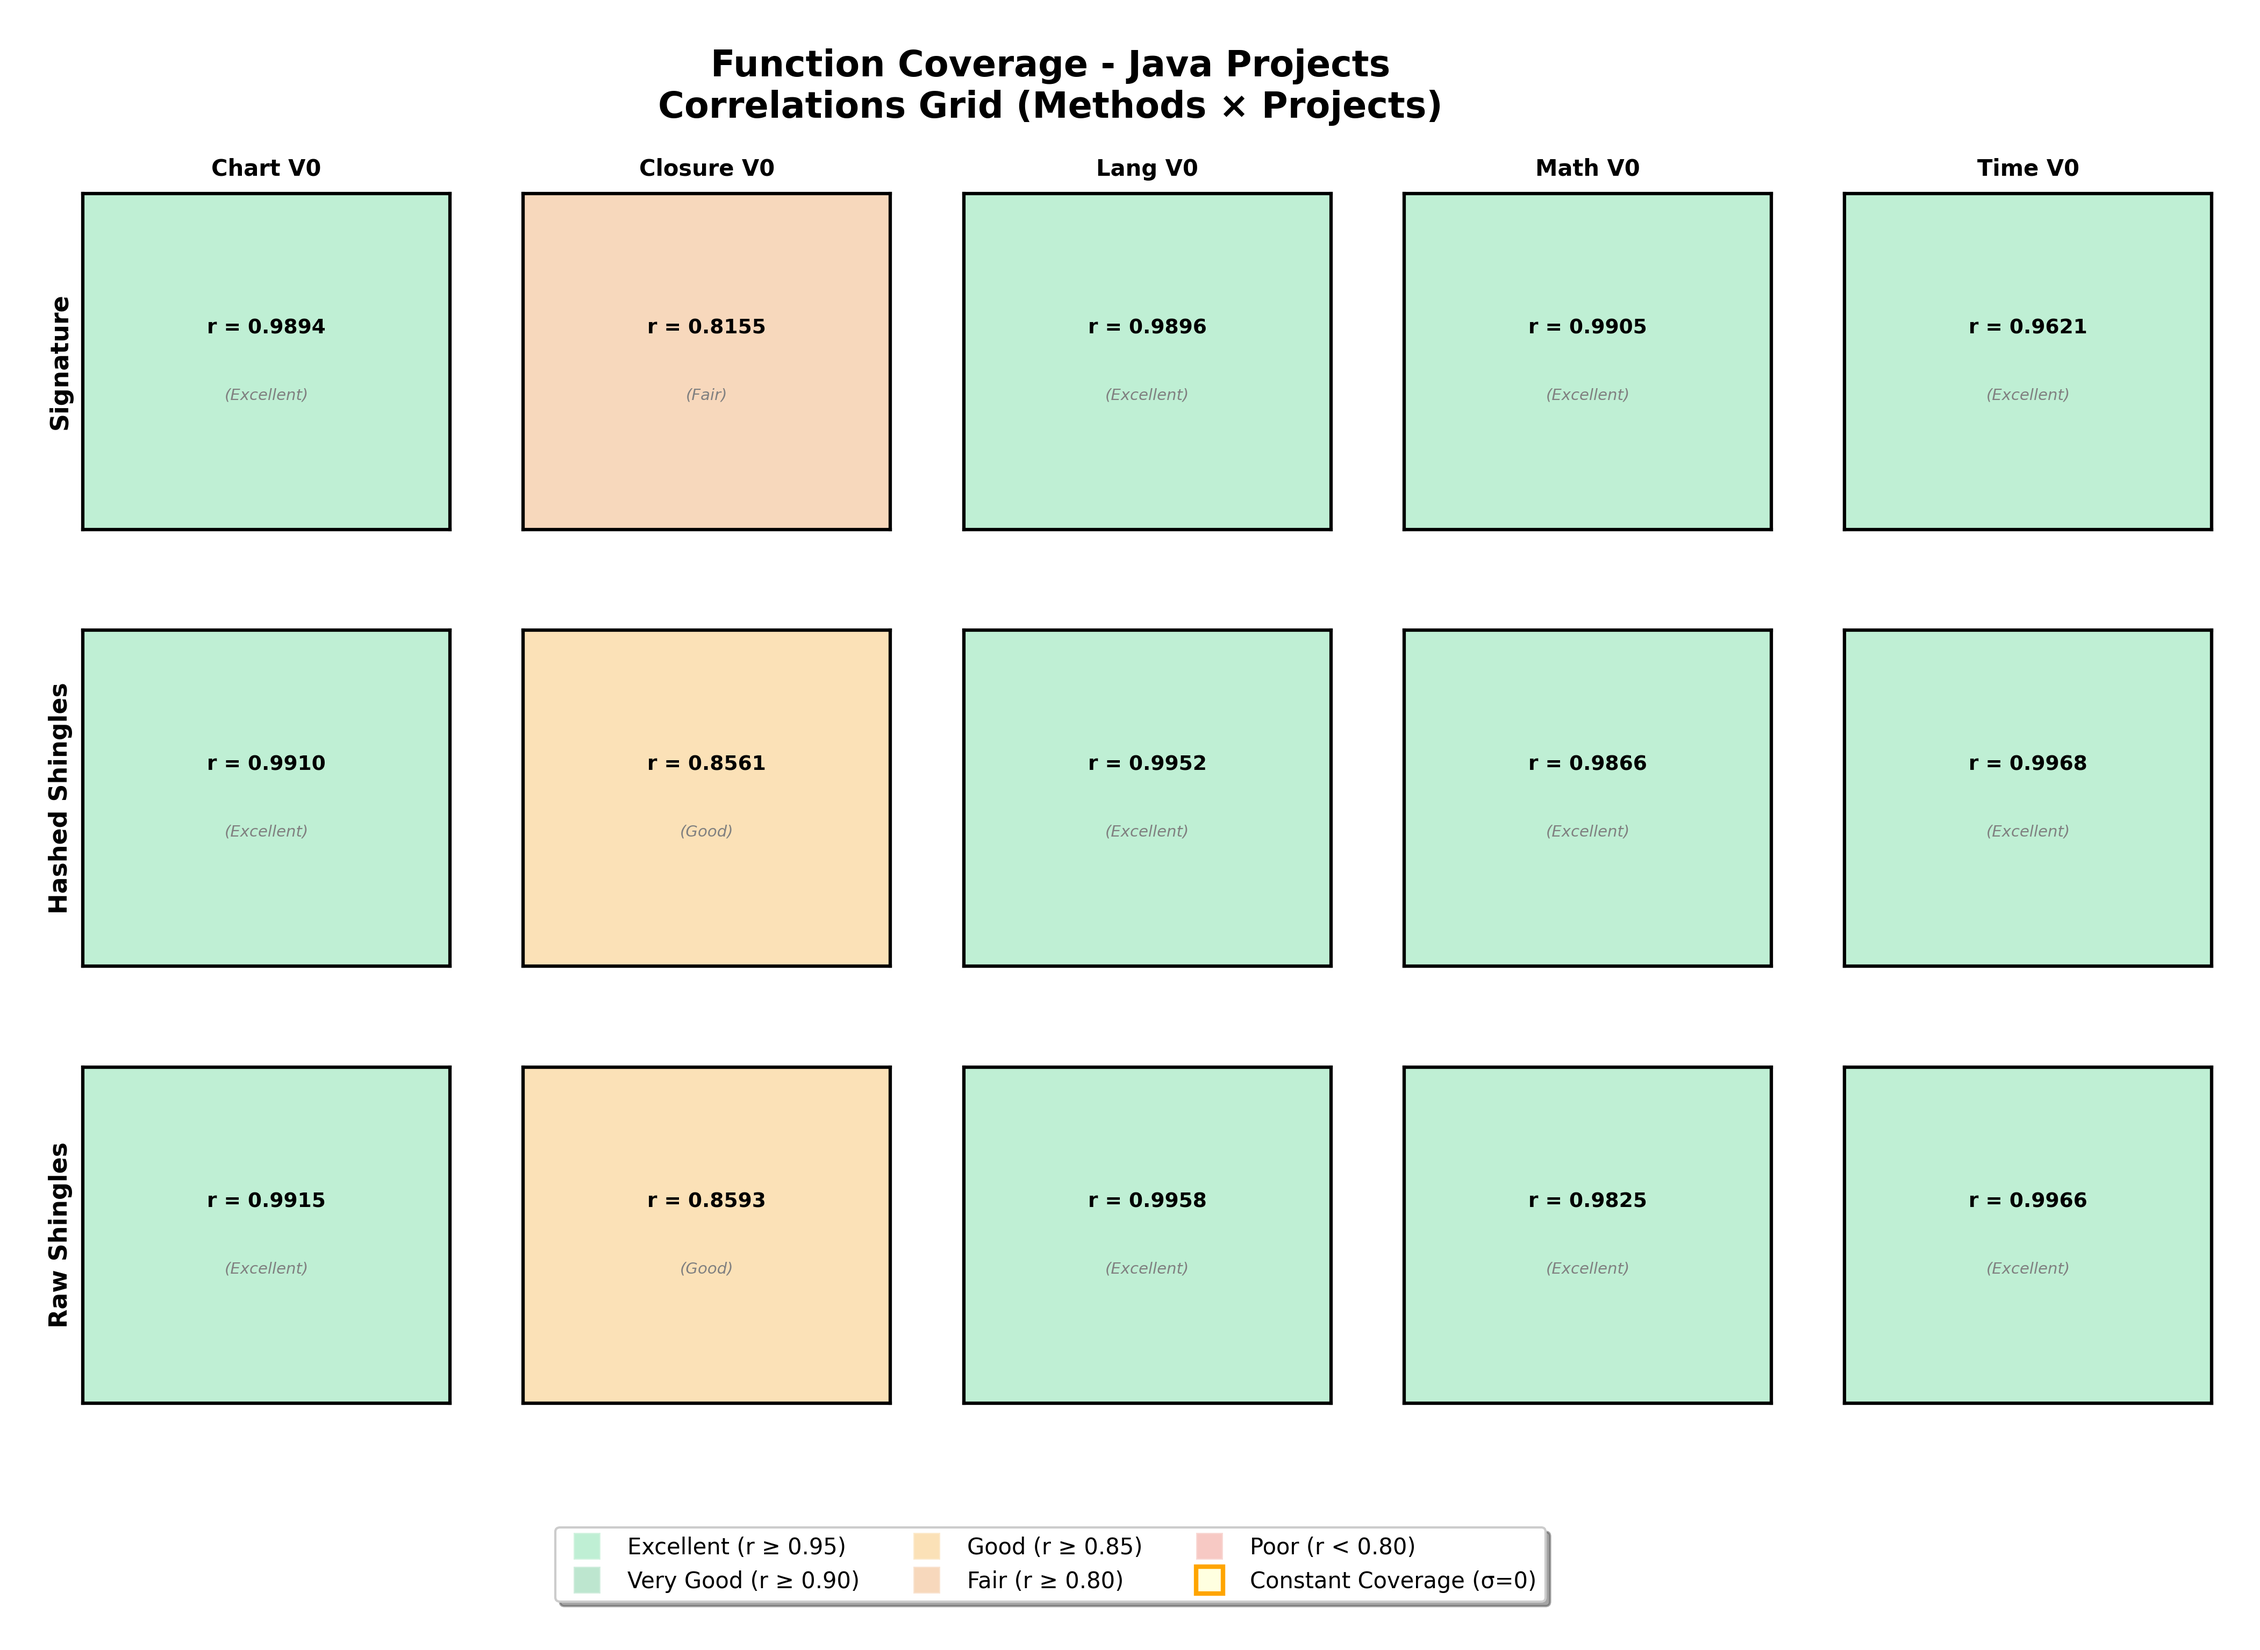
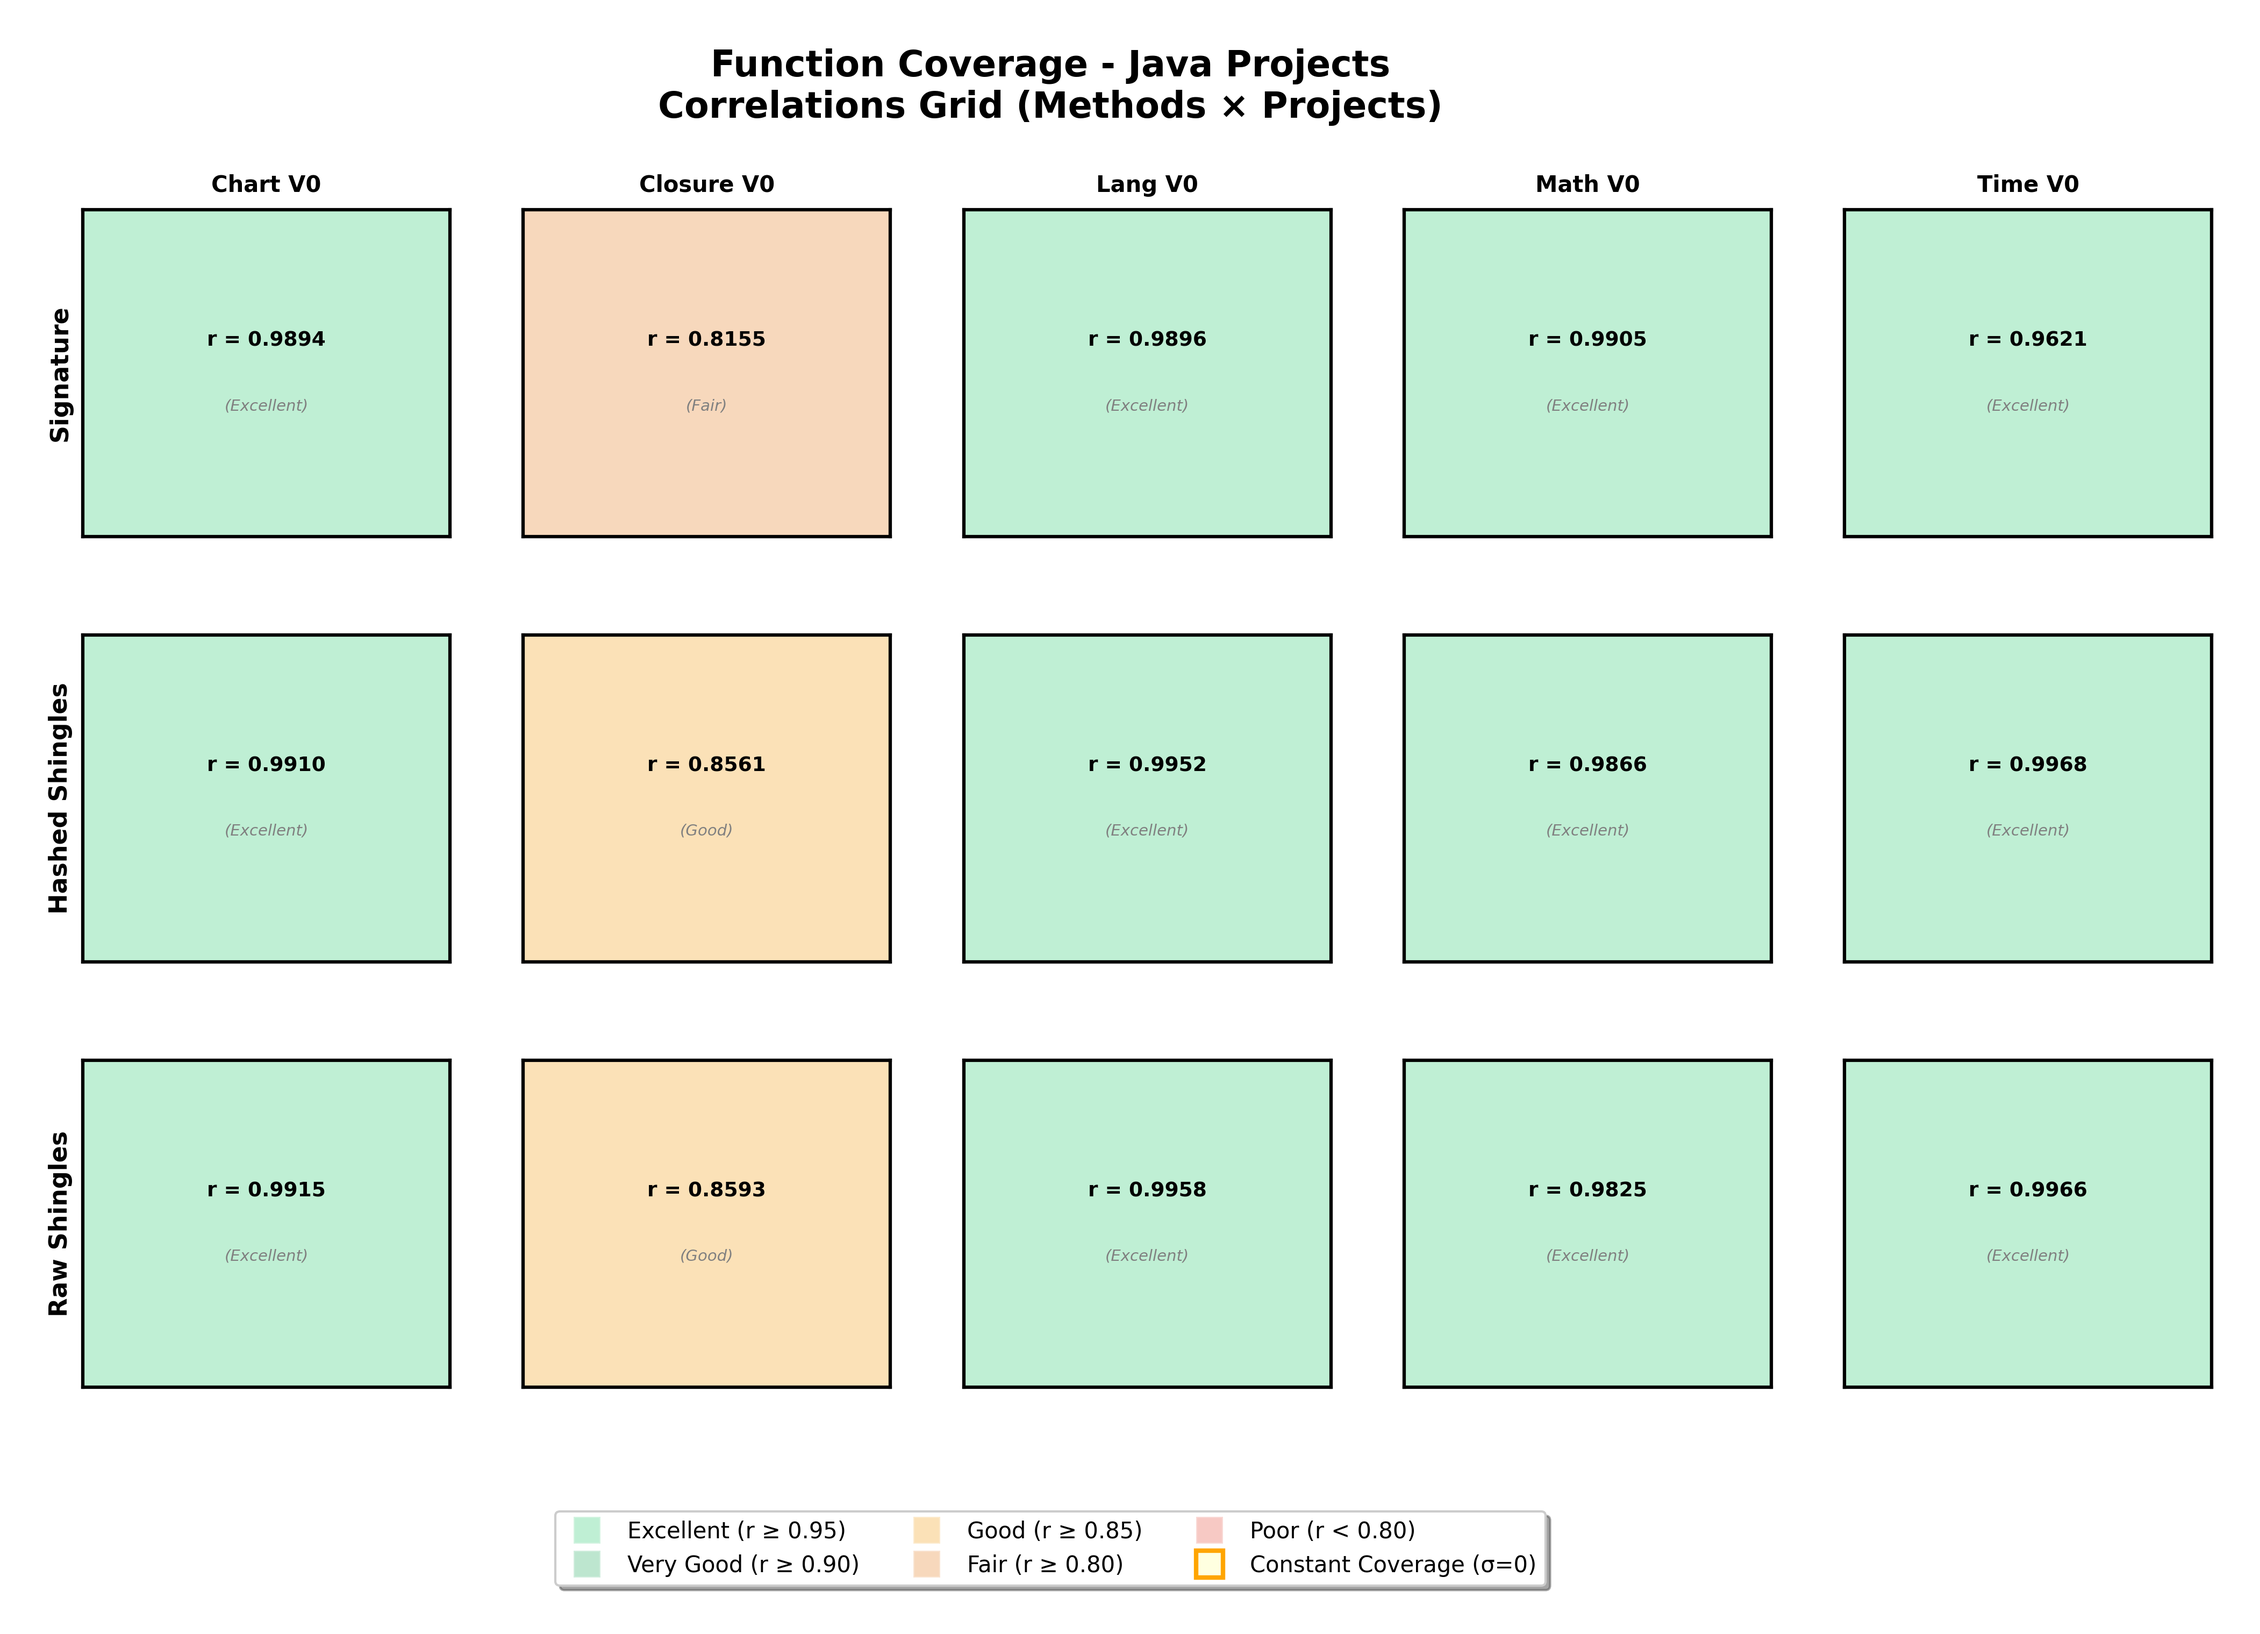
feat: update graphs layout

diff --git a/plot_correlation_grids.py b/plot_correlation_grids.py
@@ -87,7 +87,7 @@ def create_correlation_grid(entity, project_subset, subset_name):
     fig, axes = plt.subplots(len(methods), len(projects), figsize=(15, 10))
     fig.suptitle(f'{entity.capitalize()} Coverage - {subset_name}\n' + 
                  f'Correlations Grid (Methods × Projects)', 
-                 fontsize=16, fontweight='bold', y=0.99)
+                 fontsize=16, fontweight='bold', y=0.98, ha='center')
     
     # Configurar cada subplot
     for i, method in enumerate(methods):
@@ -178,7 +178,7 @@ def create_correlation_grid(entity, project_subset, subset_name):
                 spine.set_color('black')
     
     # Ajustar layout para deixar mais espaço no topo e para a legenda
-    plt.subplots_adjust(top=0.90, bottom=0.15, left=0.10, right=0.98, hspace=0.3, wspace=0.2)
+    plt.subplots_adjust(top=0.88, bottom=0.15, left=0.10, right=0.98, hspace=0.3, wspace=0.2)
     
     # Adicionar legenda dentro da figura
     legend_elements = [
